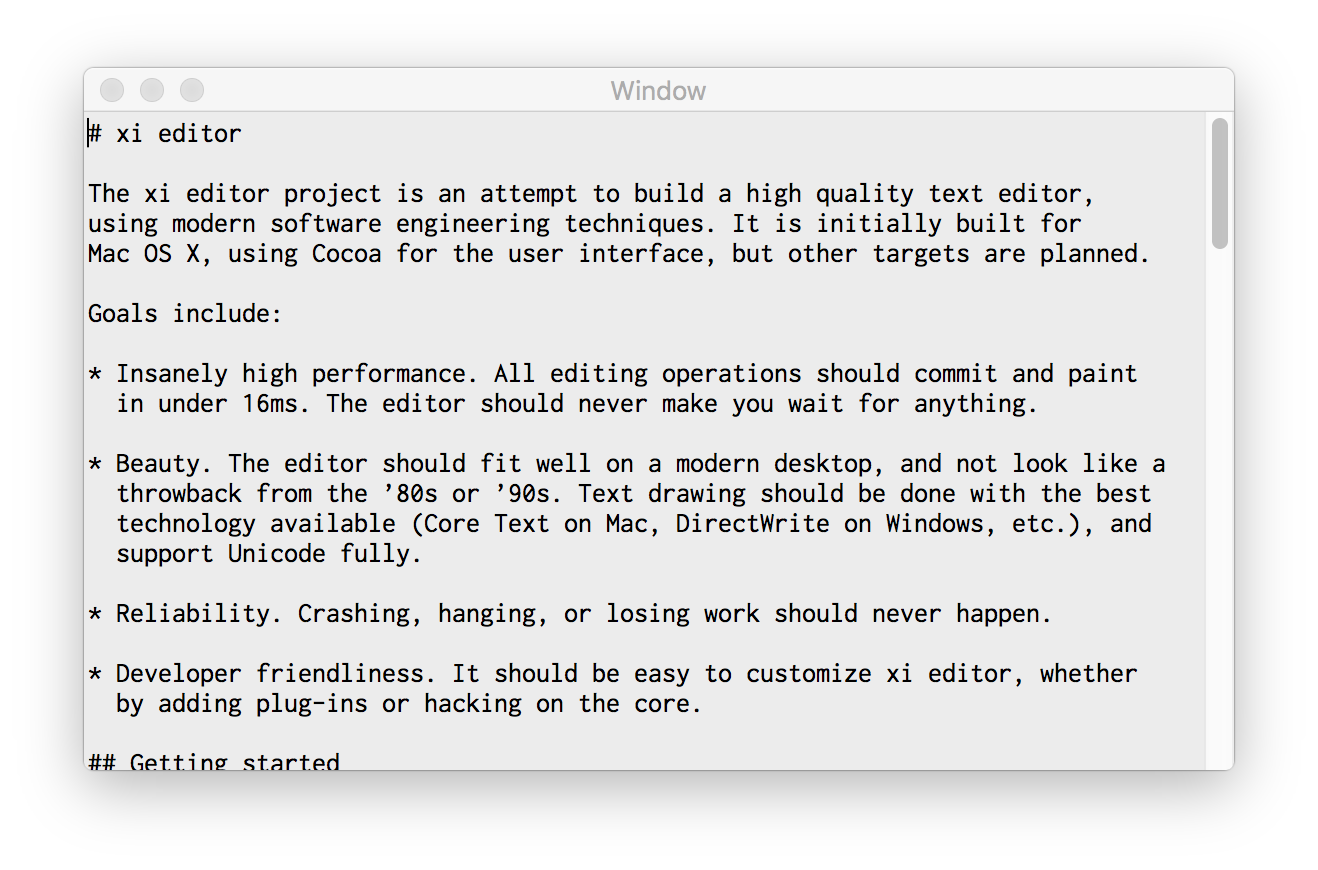
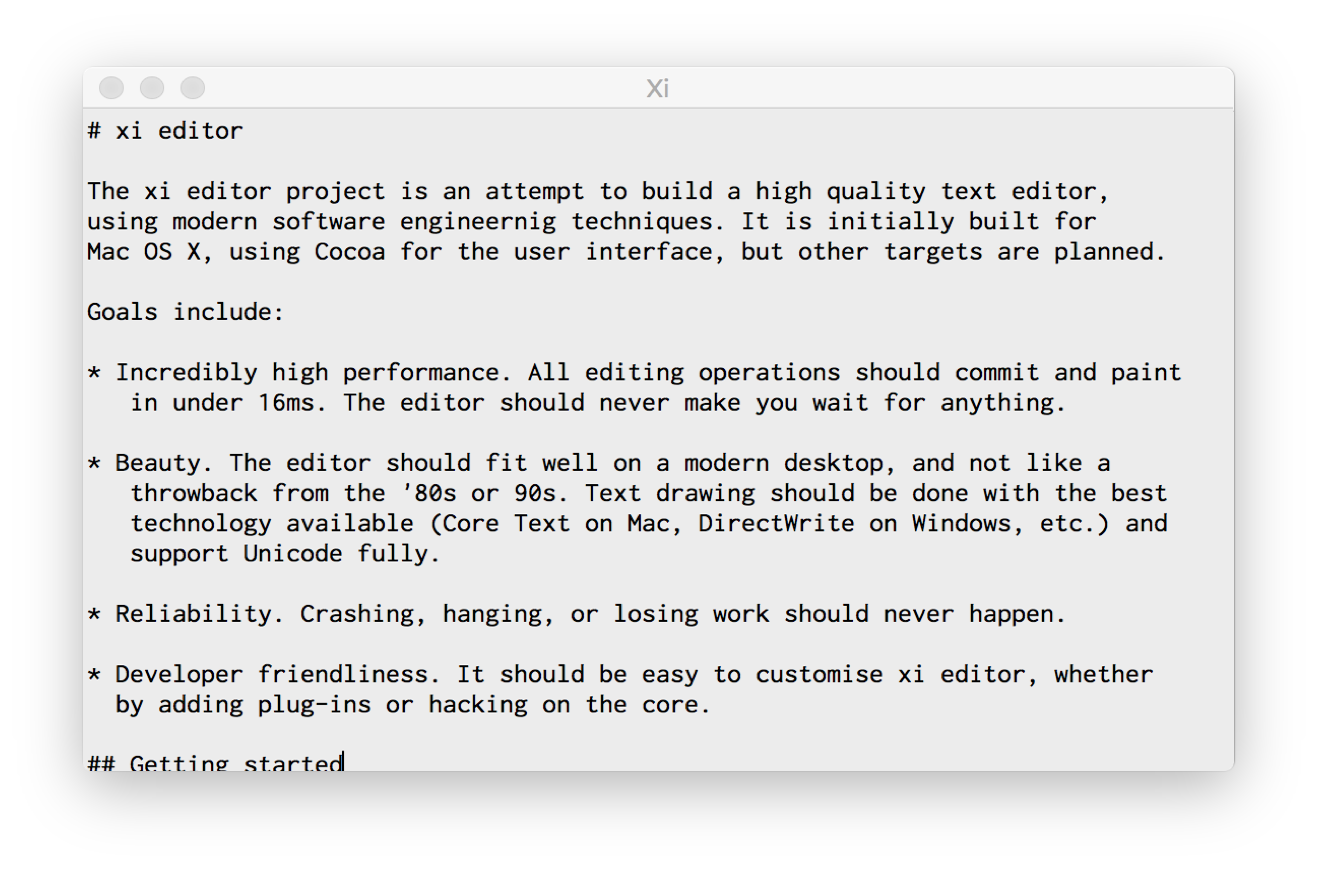
Change ableist words like insanely to incredibly

diff --git a/README.md b/README.md
@@ -11,7 +11,7 @@ Mac OS X, using Cocoa for the user interface, but other targets are planned.
 
 Goals include:
 
-* ***Insanely high performance***. All editing operations should commit and paint
+* ***Incredibly high performance***. All editing operations should commit and paint
   in under 16ms. The editor should never make you wait for anything.
 
 * ***Beauty***. The editor should fit well on a modern desktop, and not look like a
